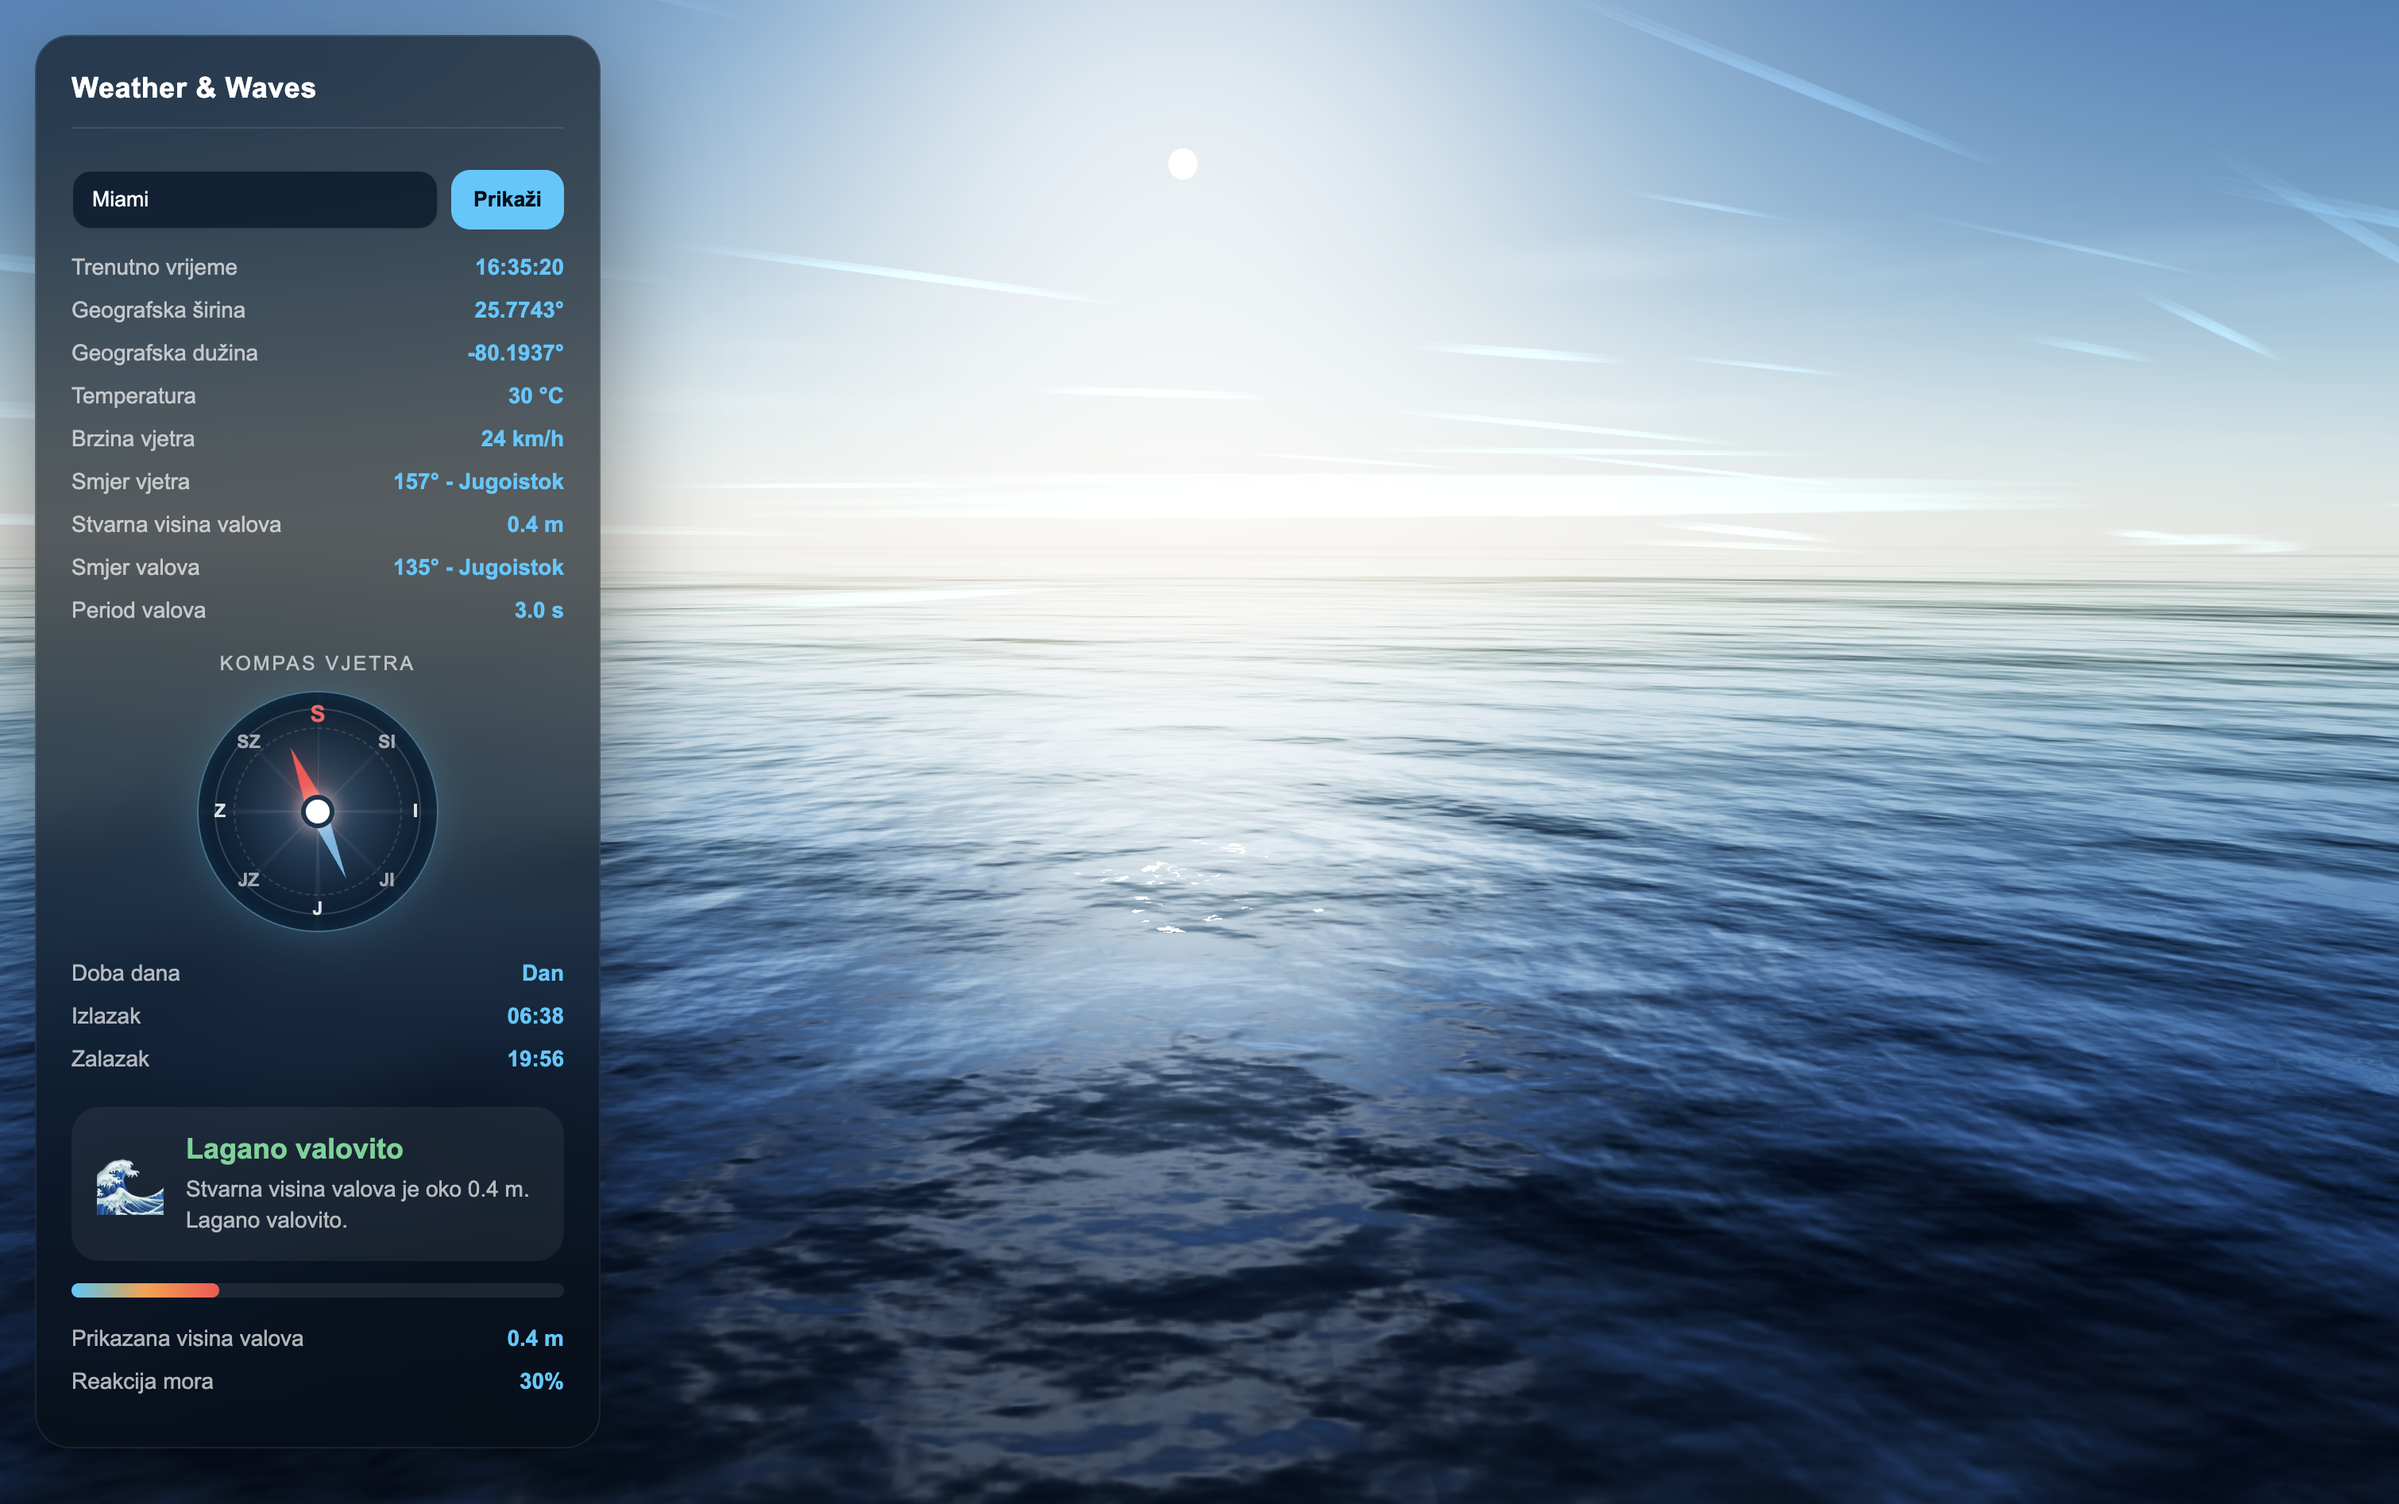
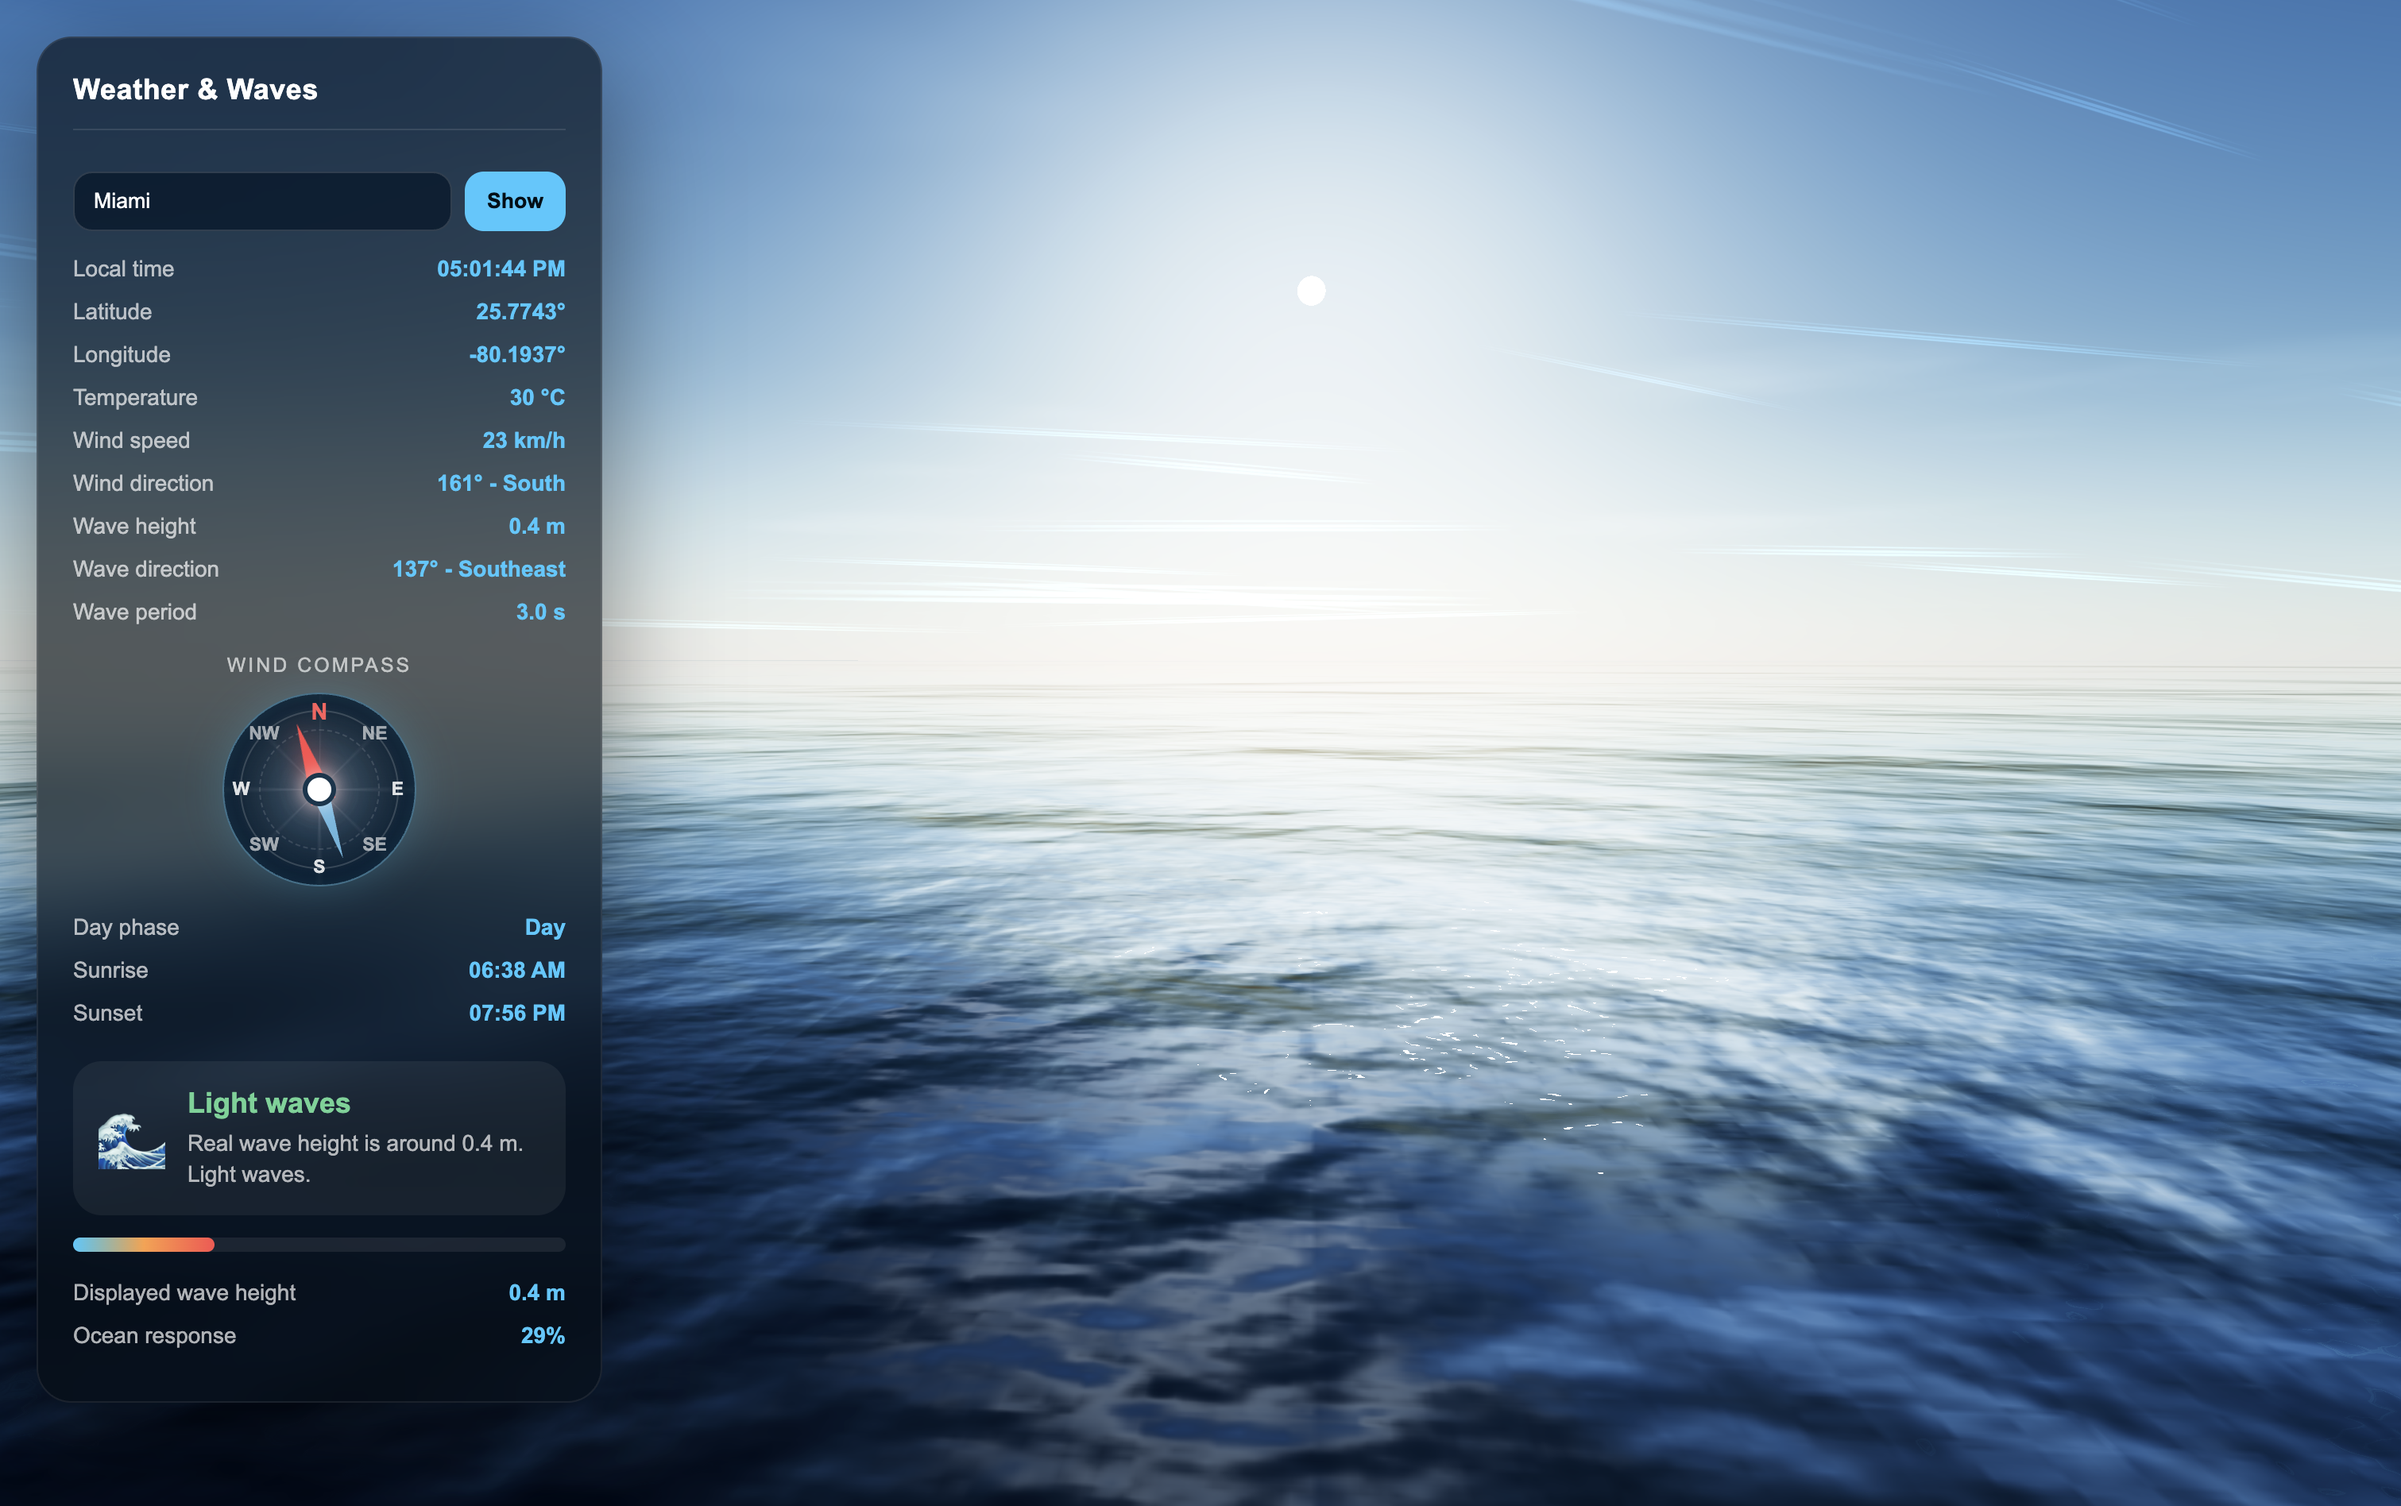
Initial realtime weather waves project

diff --git a/README.md b/README.md
@@ -7,8 +7,11 @@
 
 <br>
 
-<img src="./public/day.png" width="44%" />
-<img src="./public/night.png" width="44%" />
+<img src="./public/day.png" width="30%" />
+&nbsp;&nbsp;
+<img src="./public/sunset.png" width="30%" />
+&nbsp;&nbsp;
+<img src="./public/night.png" width="30%" />
 
 <br><br>
 
